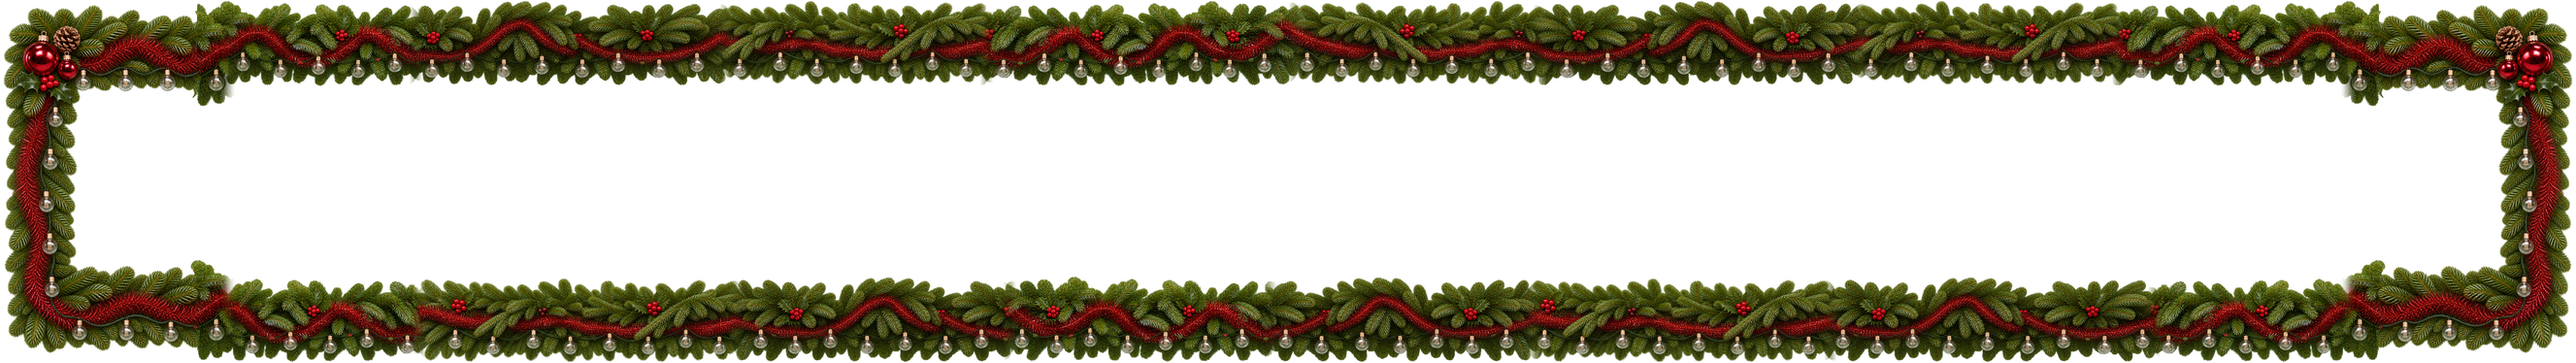
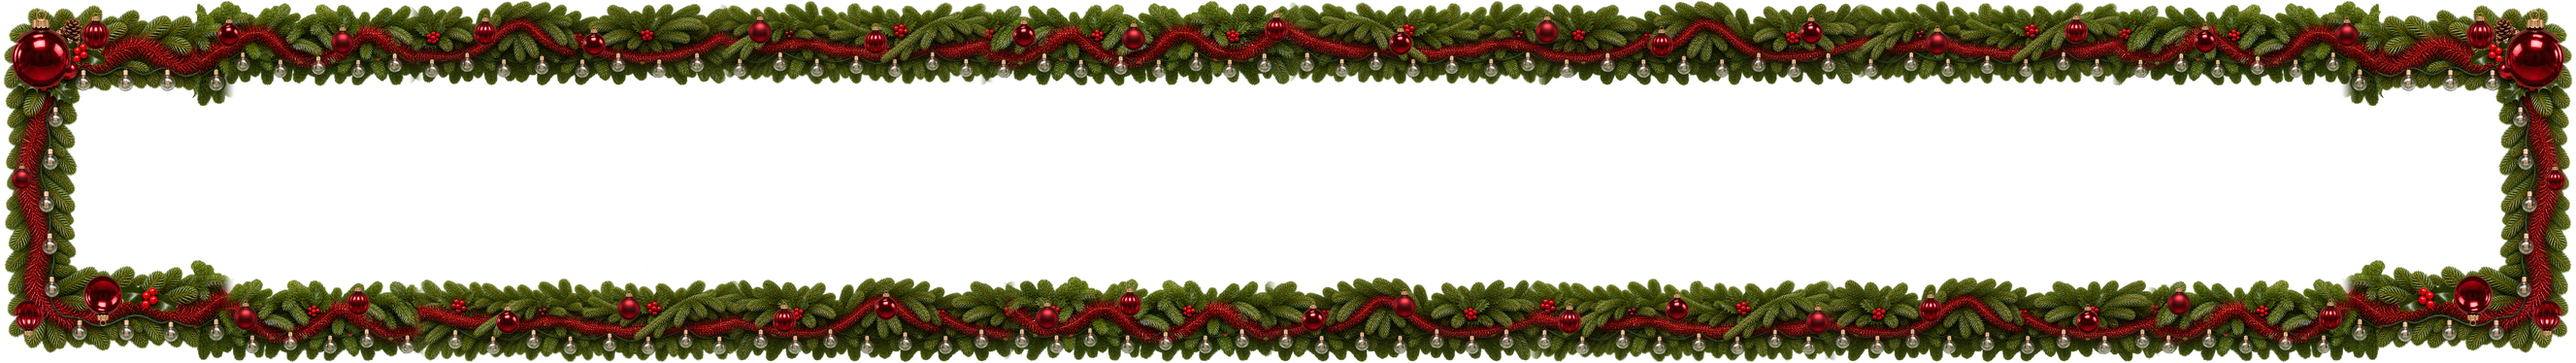
Ergänze die X-Mas-Kugeln in der Knuddels-Vorschau [skip ci]

diff --git a/PROJEKT/docs/pruefung/PRUEFBERICHT.md b/PROJEKT/docs/pruefung/PRUEFBERICHT.md
@@ -1,5 +1,13 @@
 # MischWerk – Prüfbericht 0.1.463 / Build 463
 
+## Kugeln und Eckgruppen · lokale Vorschau auf Basis Build 463
+
+Die gemeinsame Kugelvorlage liegt im Web-/Android-Repository unter `project/android-radio/project/docs/screenshots/xmas-kugeln-a-b-c.png` (Git-Stand `174cb58`). Die [Freisteller-Vorlage](https://github.com/PolaroidK/Windows-Web-App-MischWerk/blob/e4a66ab5cc8b6d187699ee36fbb2710494632017/project/android-radio/project/assets/backgrounds/xmas-kugeln-freisteller.png) ist als gemeinsame Arbeitsquelle abgelegt. Für den Knuddels-Prüfkandidaten sind glänzende, satinierte und gerippte Kugeln sowie die vier Eckgruppen in den vorhandenen breiten und kompakten An-/Aus-PNGs montiert. Die unteren Eckgruppen folgen der gespiegelten Platzierung. Ihre Kugeln sind wegen der vorhandenen Lampenflächen kleiner, und das Ilexmotiv gibt die Mindestgröße vor. Im Host 1645 × 176 misst die Girlande 1605 × 149,59 CSS-Pixel. Die große Kugel oben misst je 24,8 CSS-Pixel in der Breite, unten misst das Ilexmotiv je 26,8 CSS-Pixel.
+
+Die Bildpaare behalten 2654 × 374 und 700 × 1017 Pixel sowie ihren Alphakanal. Ein Rohpixelvergleich bestätigte identische Daten an allen registrierten Lampenflächen und identische An-/Aus-Pixelbeziehungen. Die Lampenkarten, der Spielkranz, CSS und JavaScript sind bytegleich. 13 Chrome-Hostmessungen im Knuddels-Modell ergaben vor und nach dem Austausch dieselben Maße und Lampenzahlen. Fünf gezielte Browserfälle bestanden, darunter K3 und STAPP. Die 16 Detailaufnahmen decken alle vier Ecken bei 1645 × 176 und 1645 × 220 in beiden Lichtzuständen ab. Die Aufnahmen liegen im temporären Prüfverzeichnis.
+
+Die optische Freigabe für die neuen Grafiken steht aus. Das konfigurierte Build-463-Paket mit seinen 143 Dateien, fünf Manifesten und der separaten Freigabedatei blieb bytegleich.
+
 ## Textanzeigen und Aktionsspalte in X-Mas
 
 Stand 27.11.2026. Die unsichtbaren Schaltflächen über Musik und Thema sind entfernt. Titel, Interpret, Thema und Moderation bleiben statische Textanzeigen mit vollständigen dynamischen Inhalten im DOM. Klicks öffnen keinen Dialog. Der Normalmodus behält seinen Tastaturzugang zum Informationsbereich. Den eigenen Musikwunsch kann man weiterhin über seinen Lesedialog vollständig lesen.
